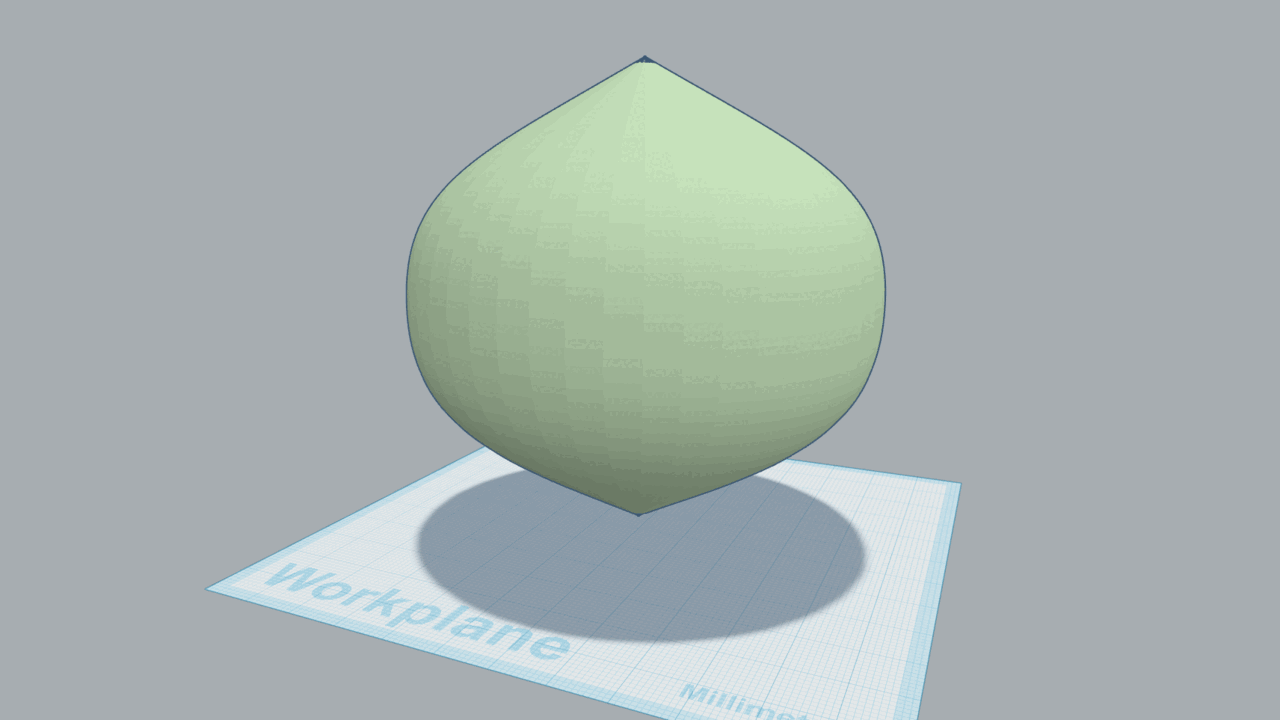
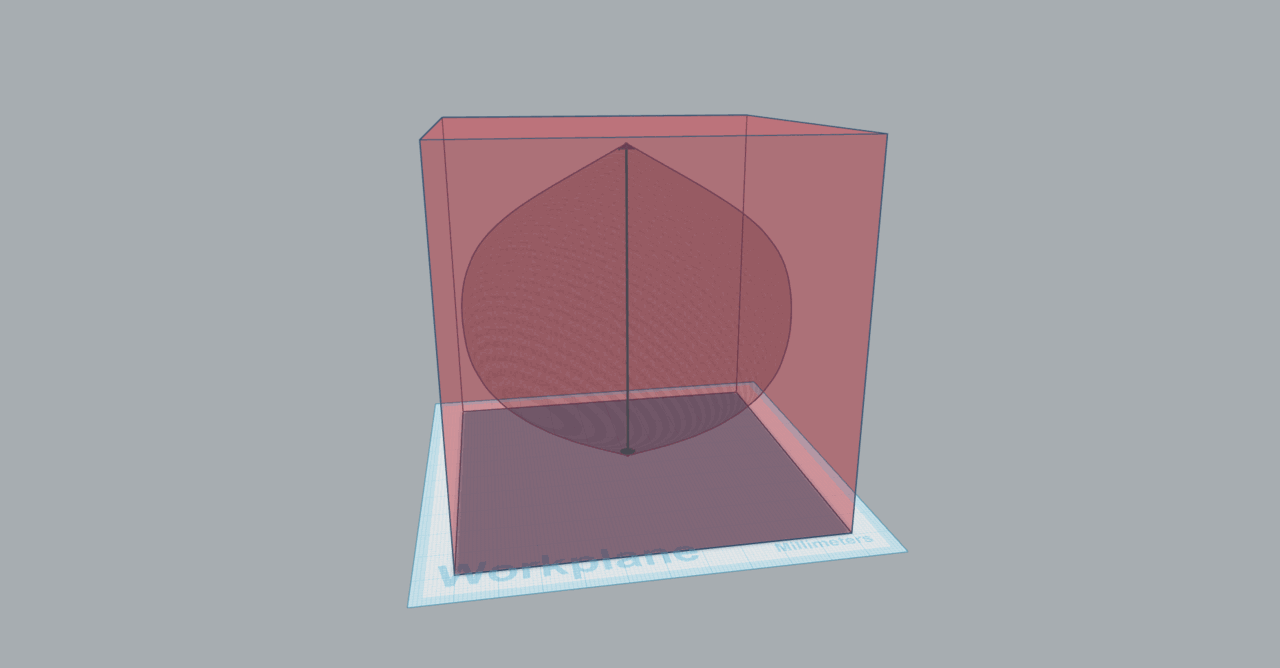
add a pic of my sphubes

diff --git a/drafts/infilling-with-voids.md b/drafts/infilling-with-voids.md
@@ -103,6 +103,8 @@ deviating too much further from our spherical ideal.
 
 Enter, The [Sphube][]!
 
+{% include tinkercad.liquid id='7dc2EkDfy6a' image='/images/infill-sphube-void.png' %}
+
 You might be more familiar with the [squircle][], and this is just a 3D
 extension on that idea.  These squircles and hypersquircles have the
 benefit of being continous curves, and so should be a bit more resistant
@@ -162,8 +164,6 @@ So back to the compromises I go...
 [sphube-test]: </blobs/cube-minus-sphube.stl>
 [sphubes-stl]: </blobs/sphubes.tar.xz>
 [sphubes-lowres-stl]: </blobs/sphubes_lowres.tar.xz>
-[onion]: <https://www.tinkercad.com/things/43k3a2lx2MD-funky-hango-stantia>
-[onion-pic]: </images/infill-onion-void.png>
 
 [sdflab]: <https://github.com/fogleman/sdf>
 [squircle]: <https://en.wikipedia.org/wiki/Squircle>
